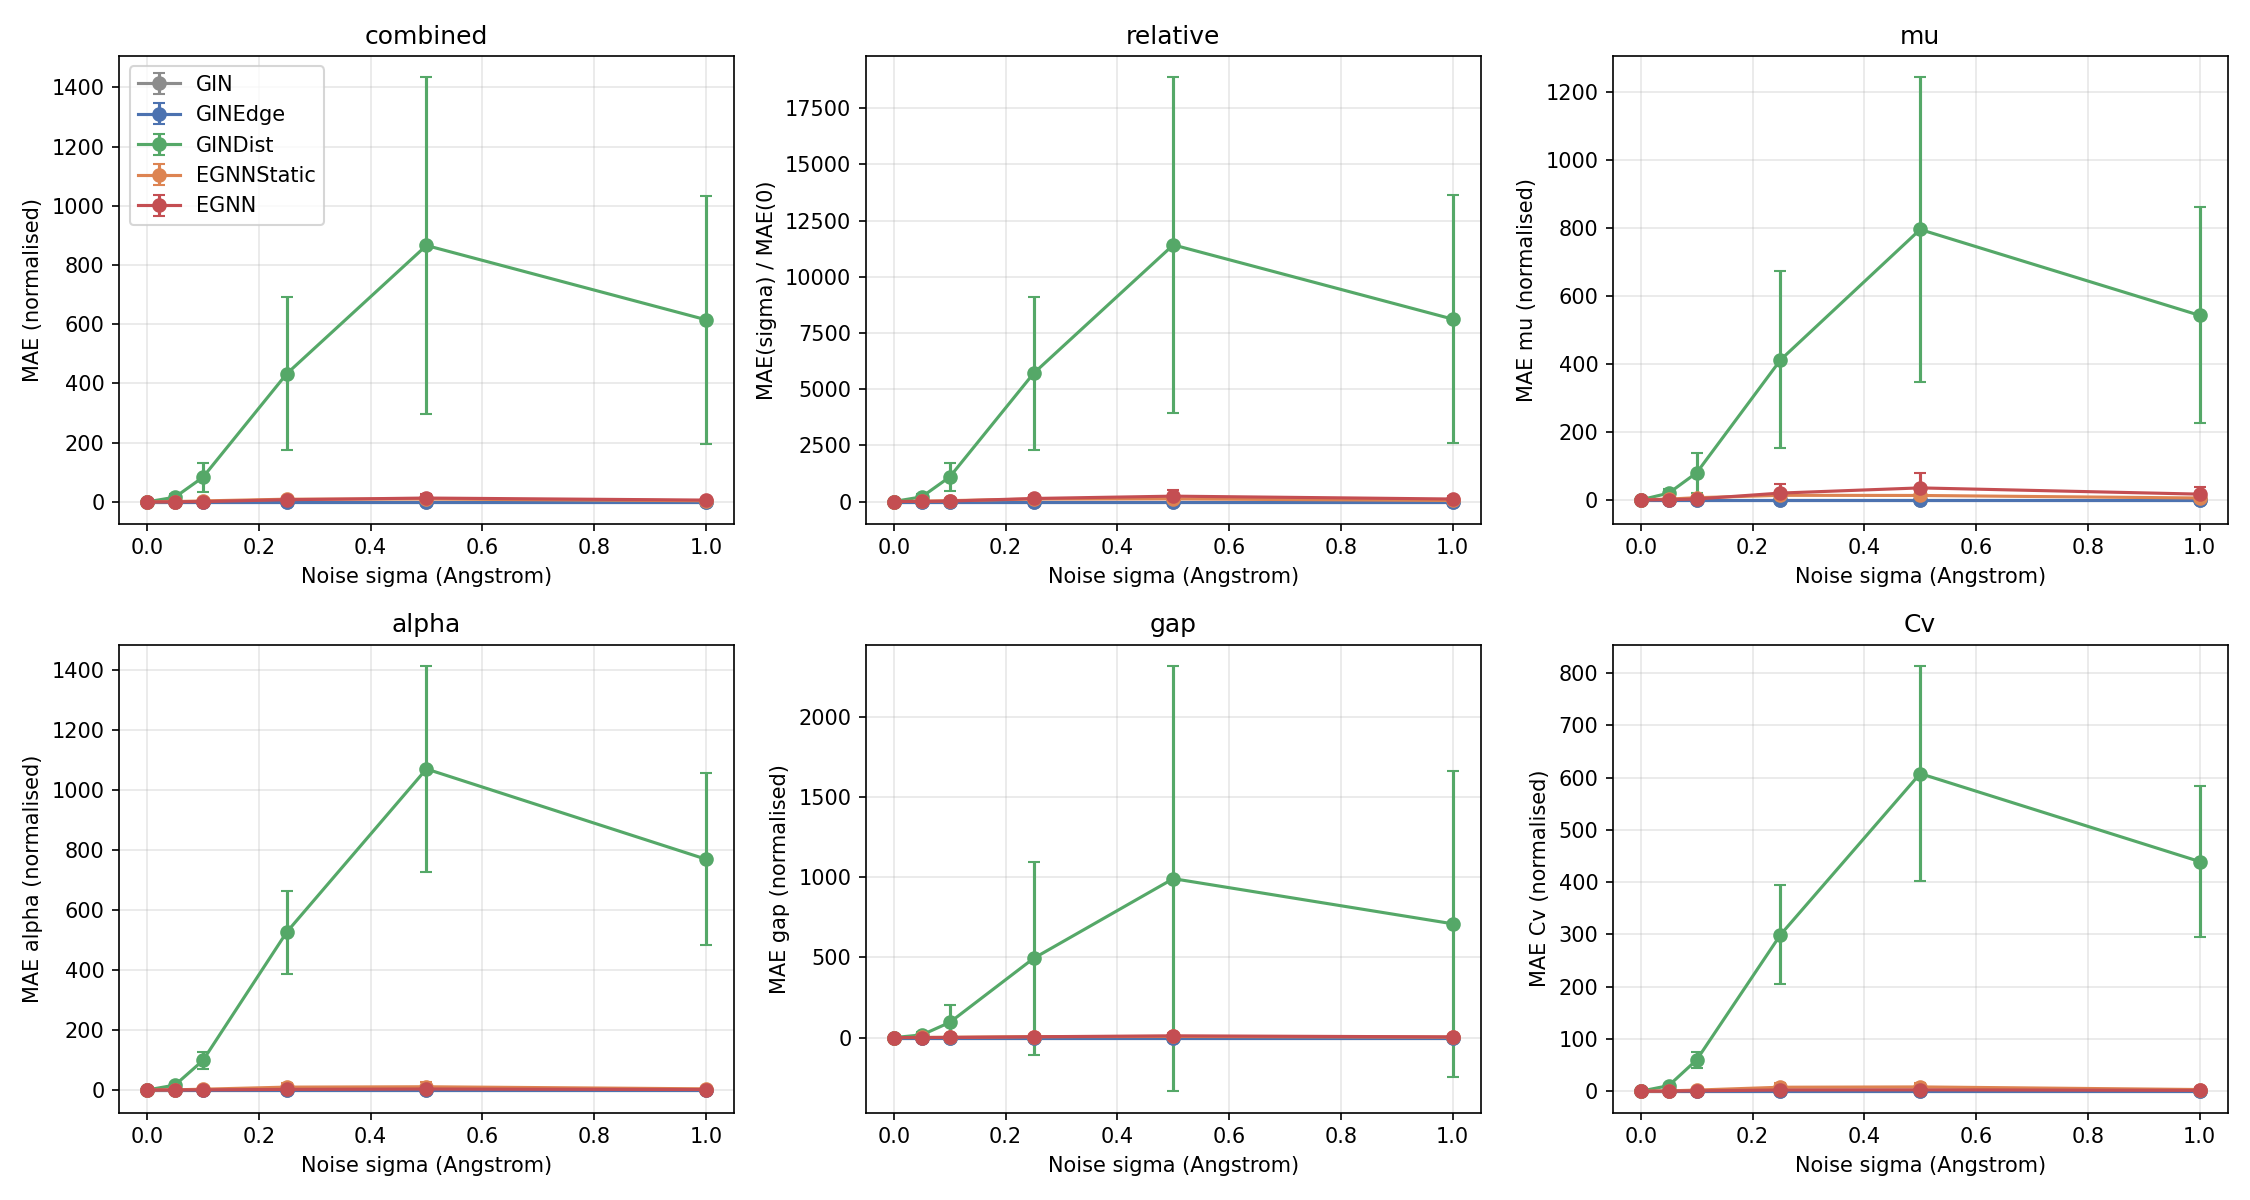
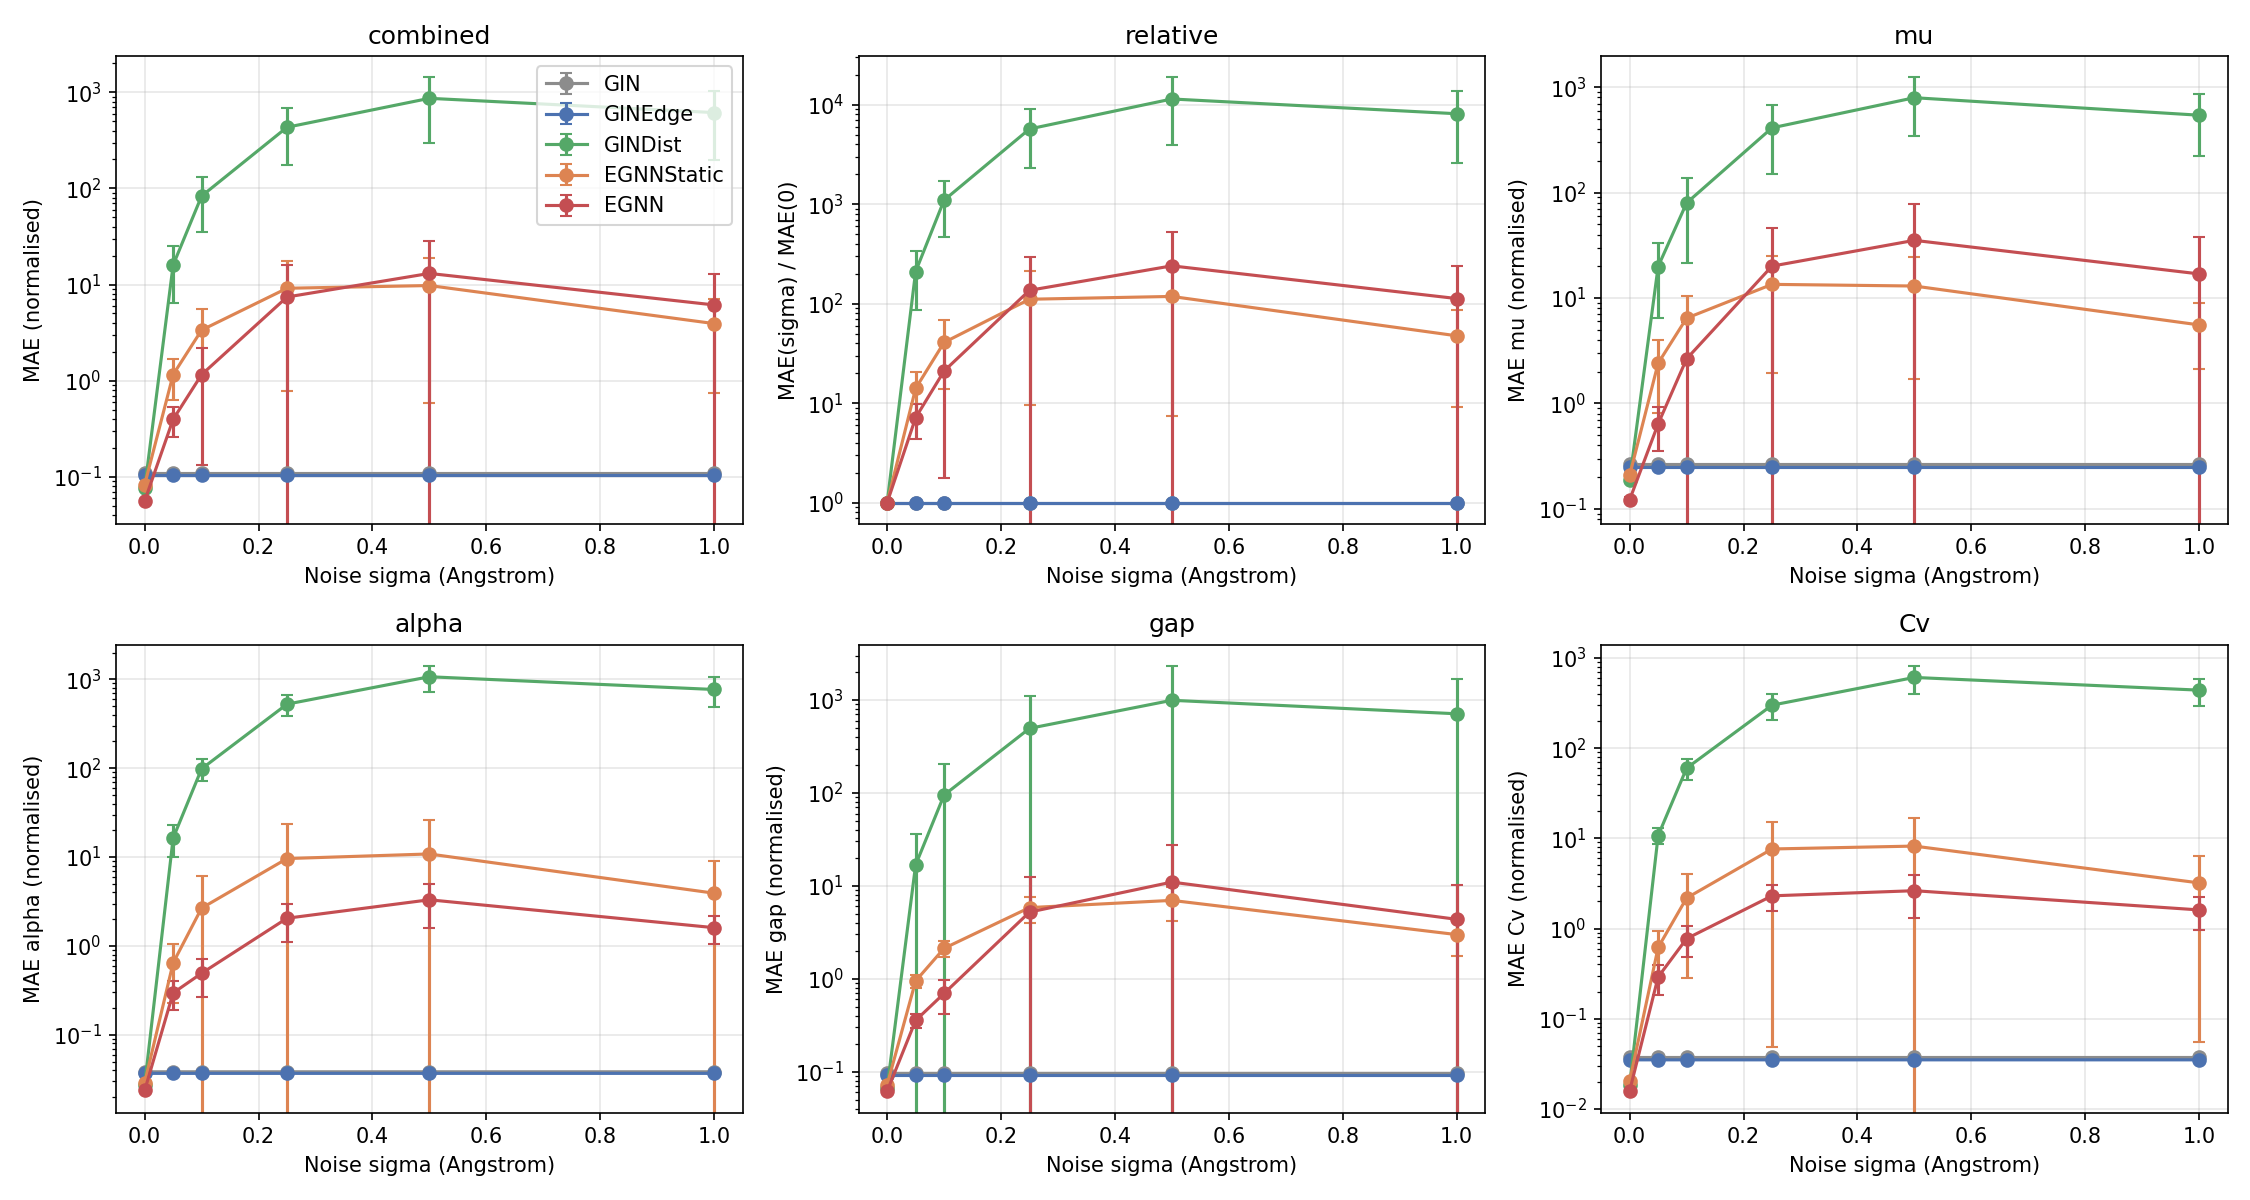
Add results, log-scale noise plot, heavy-atom curvature

diff --git a/src/molecular_prediction/experiments/curvature_analysis.py b/src/molecular_prediction/experiments/curvature_analysis.py
@@ -48,8 +48,19 @@ REFERENCE_MODEL: str = "GIN"
 NUM_BOOTSTRAP: int = 1_000
 
 
+def heavy_atom_graph(edge_index: torch.Tensor, is_heavy: torch.Tensor) -> tuple[np.ndarray, int]:
+    """Drop hydrogens and their bonds, relabelling the remaining atoms 0..n-1."""
+    new_index: torch.Tensor = torch.full((len(is_heavy),), -1, dtype=torch.long)
+    new_index[is_heavy] = torch.arange(int(is_heavy.sum()))
+    keep: torch.Tensor = is_heavy[edge_index[0]] & is_heavy[edge_index[1]]
+    return new_index[edge_index[:, keep]].numpy(), int(is_heavy.sum())
+
+
 def compute_test_curvatures(config: Config, test_dataset: Dataset) -> dict[str, np.ndarray]:
     """Curvature summary and size of every test molecule, cached as ``.npz``.
+
+    Curvature is computed on the all-atom graph the models use, or on the
+    heavy-atom skeleton if ``config.curvature.heavy_atoms_only`` is set.
 
     Returns:
         Arrays of length num_test: ``min_curvature``, ``mean_curvature``,
@@ -57,7 +68,7 @@ def compute_test_curvatures(config: Config, test_dataset: Dataset) -> dict[str, 
     """
     cache: Path = config.paths.cache_dir / (
         f"curvature_split{config.data.split_seed}_n{len(test_dataset)}"
-        f"_alpha{config.curvature.alpha}.npz"
+        f"_alpha{config.curvature.alpha}{config.curvature.suffix}.npz"
     )
     if cache.exists():
         logger.info("Loading cached curvatures from %s", cache)
@@ -67,8 +78,13 @@ def compute_test_curvatures(config: Config, test_dataset: Dataset) -> dict[str, 
     num_heavy: list[int] = []
     for i in range(len(test_dataset)):
         data = test_dataset[i]
-        graphs.append((data.edge_index.numpy(), data.num_nodes, config.curvature.alpha))
-        num_heavy.append(int((data.x[:, HYDROGEN_FEATURE] == 0).sum()))
+        is_heavy: torch.Tensor = data.x[:, HYDROGEN_FEATURE] == 0
+        if config.curvature.heavy_atoms_only:
+            edge_index, num_nodes = heavy_atom_graph(data.edge_index, is_heavy)
+        else:
+            edge_index, num_nodes = data.edge_index.numpy(), data.num_nodes
+        graphs.append((edge_index, num_nodes, config.curvature.alpha))
+        num_heavy.append(int(is_heavy.sum()))
 
     logger.info("Computing Ollivier-Ricci curvature for %d molecules...", len(graphs))
     with Pool(config.curvature.num_processes) as pool:
@@ -78,7 +94,7 @@ def compute_test_curvatures(config: Config, test_dataset: Dataset) -> dict[str, 
         "min_curvature": np.array([s.min_curvature for s in summaries]),
         "mean_curvature": np.array([s.mean_curvature for s in summaries]),
         "num_edges": np.array([s.num_edges for s in summaries]),
-        "num_atoms": np.array([g[1] for g in graphs]),
+        "num_atoms": np.array([g[1] for g in graphs]),  # nodes of the analysed graph
         "num_heavy_atoms": np.array(num_heavy),
     }
     cache.parent.mkdir(parents=True, exist_ok=True)
@@ -234,11 +250,13 @@ def run_curvature_analysis(
                 reference - candidate, molecules["min_curvature"], molecules["num_atoms"]
             )
 
-    save_json(summary, config.paths.results_dir / "curvature_analysis.json")
-    plotting.plot_curvature_distribution(molecules, config.paths.figures_dir)
-    plotting.plot_mae_by_quantile(summary, config.paths.figures_dir)
+    suffix: str = config.curvature.suffix
+    summary["graph"] = "heavy_atoms" if config.curvature.heavy_atoms_only else "all_atoms"
+    save_json(summary, config.paths.results_dir / f"curvature_analysis{suffix}.json")
+    plotting.plot_curvature_distribution(molecules, config.paths.figures_dir, suffix)
+    plotting.plot_mae_by_quantile(summary, config.paths.figures_dir, suffix)
     if summary["relative_improvement"]:
-        plotting.plot_relative_improvement(summary, config.paths.figures_dir)
+        plotting.plot_relative_improvement(summary, config.paths.figures_dir, suffix)
     _log_summary(summary)
     return summary
 

diff --git a/src/molecular_prediction/cli.py b/src/molecular_prediction/cli.py
@@ -7,6 +7,8 @@ Examples:
     python main.py compare
     python main.py noise
     python main.py curvature
+    python main.py curvature --heavy-atoms   # curvature of the hydrogen-free skeleton
+    python main.py plots                     # redraw every figure from results/*.json
     python main.py all --smoke          # 2-epoch end-to-end check on a tiny subset
 """
 
@@ -16,13 +18,23 @@ from pathlib import Path
 
 from molecular_prediction.config import MODEL_NAMES, Config
 from molecular_prediction.data.dataset import load_splits
+from molecular_prediction.experiments import plotting
 from molecular_prediction.experiments.curvature_analysis import run_curvature_analysis
 from molecular_prediction.experiments.main_comparison import aggregate_comparison, train_all
 from molecular_prediction.experiments.noise_ablation import run_noise_ablation
 from molecular_prediction.models import build_model, count_parameters
-from molecular_prediction.training.utils import resolve_device, save_json
+from molecular_prediction.training.utils import load_json, resolve_device, save_json
 
-COMMANDS: tuple[str, ...] = ("params", "data", "train", "compare", "noise", "curvature", "all")
+COMMANDS: tuple[str, ...] = (
+    "params",
+    "data",
+    "train",
+    "compare",
+    "noise",
+    "curvature",
+    "plots",
+    "all",
+)
 
 
 def parse_args(argv: list[str] | None = None) -> argparse.Namespace:
@@ -39,6 +51,11 @@ def parse_args(argv: list[str] | None = None) -> argparse.Namespace:
     parser.add_argument("--output-dir", type=Path, help="Checkpoints, logs, caches.")
     parser.add_argument("--results-dir", type=Path, help="JSON results and figures.")
     parser.add_argument("--overwrite", action="store_true", help="Retrain finished runs.")
+    parser.add_argument(
+        "--heavy-atoms",
+        action="store_true",
+        help="Curvature analysis on the heavy-atom graph (hydrogens removed).",
+    )
     parser.add_argument(
         "--smoke",
         action="store_true",
@@ -69,6 +86,7 @@ def build_config(args: argparse.Namespace) -> Config:
         config.paths.output_dir = args.output_dir
     if args.results_dir is not None:
         config.paths.results_dir = args.results_dir
+    config.curvature.heavy_atoms_only = args.heavy_atoms
     return config
 
 
@@ -79,6 +97,25 @@ def print_parameter_counts(config: Config, model_names: list[str]) -> None:
             f"{name:<11} hidden={config.model.hidden_dims[name]:>4}  "
             f"parameters={count_parameters(model):>9,}"
         )
+
+
+def redraw_figures(config: Config, model_names: list[str]) -> None:
+    """Regenerate the figures from the saved JSON results, without checkpoints.
+
+    The curvature histogram needs per-molecule data from the cache, so it is
+    only redrawn by the ``curvature`` command itself.
+    """
+    results: Path = config.paths.results_dir
+    figures: Path = config.paths.figures_dir
+    aggregate_comparison(config, model_names)
+    if (results / "noise_ablation.json").exists():
+        plotting.plot_noise_ablation(load_json(results / "noise_ablation.json"), figures)
+    for suffix in ("", "_heavy"):
+        path: Path = results / f"curvature_analysis{suffix}.json"
+        if path.exists():
+            summary = load_json(path)
+            plotting.plot_mae_by_quantile(summary, figures, suffix)
+            plotting.plot_relative_improvement(summary, figures, suffix)
 
 
 def main(argv: list[str] | None = None) -> None:
@@ -93,6 +130,10 @@ def main(argv: list[str] | None = None) -> None:
 
     if args.command == "params":
         print_parameter_counts(config, models)
+        return
+
+    if args.command == "plots":
+        redraw_figures(config, models)
         return
 
     if args.command == "data":

diff --git a/src/molecular_prediction/experiments/plotting.py b/src/molecular_prediction/experiments/plotting.py
@@ -134,13 +134,17 @@ def plot_noise_ablation(summary: dict[str, Any], output_dir: Path) -> None:
             )
         ax.set_xlabel("Noise sigma (Angstrom)")
         ax.set_ylabel(ylabel)
+        # Errors span four orders of magnitude across models: log scale is required.
+        ax.set_yscale("log")
         ax.set_title(key)
         ax.grid(True, alpha=0.3)
     axes.flat[0].legend()
     _save(fig, output_dir, "noise_ablation.png")
 
 
-def plot_curvature_distribution(molecules: dict[str, np.ndarray], output_dir: Path) -> None:
+def plot_curvature_distribution(
+    molecules: dict[str, np.ndarray], output_dir: Path, suffix: str = ""
+) -> None:
     """Histogram of min curvature and its relation to molecule size (the confounder)."""
     fig, axes = plt.subplots(1, 2, figsize=(12, 4.5))
     axes[0].hist(molecules["min_curvature"], bins=40, color="#4C72B0", edgecolor="white")
@@ -161,10 +165,10 @@ def plot_curvature_distribution(molecules: dict[str, np.ndarray], output_dir: Pa
     axes[1].set_title("Curvature vs size (confounder)")
     for ax in axes:
         ax.grid(True, alpha=0.3)
-    _save(fig, output_dir, "curvature_distribution.png")
+    _save(fig, output_dir, f"curvature_distribution{suffix}.png")
 
 
-def plot_mae_by_quantile(summary: dict[str, Any], output_dir: Path) -> None:
+def plot_mae_by_quantile(summary: dict[str, Any], output_dir: Path, suffix: str = "") -> None:
     """MAE per bottleneck quantile: combined (normalised) and per target (physical)."""
     models: list[str] = list(summary["mae_by_quantile"])
     labels: list[str] = [f"Q{q}\nn={n}" for q, n in enumerate(summary["quantile_sizes"])]
@@ -184,10 +188,10 @@ def plot_mae_by_quantile(summary: dict[str, Any], output_dir: Path) -> None:
         ax.set_xlabel("Bottleneck quantile (Q0 = least)")
     axes[0].set_ylabel("MAE")
     axes[0].legend(fontsize=8)
-    _save(fig, output_dir, "mae_by_quantile.png")
+    _save(fig, output_dir, f"mae_by_quantile{suffix}.png")
 
 
-def plot_relative_improvement(summary: dict[str, Any], output_dir: Path) -> None:
+def plot_relative_improvement(summary: dict[str, Any], output_dir: Path, suffix: str = "") -> None:
     """Relative improvement over GIN per quantile with paired-bootstrap 95% CIs."""
     improvements: dict[str, list[dict[str, float]]] = summary["relative_improvement"]
     models: list[str] = list(improvements)
@@ -218,4 +222,4 @@ def plot_relative_improvement(summary: dict[str, Any], output_dir: Path) -> None
     ax.set_title("Relative MAE improvement over GIN (combined, 95% bootstrap CI)")
     ax.legend(fontsize=8)
     ax.grid(True, axis="y", alpha=0.3)
-    _save(fig, output_dir, "relative_improvement_by_quantile.png")
+    _save(fig, output_dir, f"relative_improvement_by_quantile{suffix}.png")

diff --git a/tests/test_curvature.py b/tests/test_curvature.py
@@ -56,3 +56,17 @@ def test_regression_removes_a_pure_size_effect() -> None:
     result = size_controlled_regression(improvement, min_curvature, num_atoms)
     assert result["severity_coef"] > 5 * result["severity_se"]  # confounded on its own
     assert abs(result["severity_coef_given_size"]) < 3 * result["severity_se_given_size"]
+
+
+def test_sp3_sp3_bond_curvature_depends_on_explicit_hydrogens() -> None:
+    """Ethane: with hydrogens the C-C bond looks like a bottleneck, without them it does not.
+
+    Each carbon has degree 4, so its walk spreads 1/8 on each neighbour; the three
+    hydrogens of one carbon must travel 3 hops to those of the other:
+    W1 = 3/8 + 3 * 3/8 = 3/2, kappa = -1/2. This is why most saturated molecules
+    share a minimum curvature of exactly -0.5 on the all-atom graph.
+    """
+    carbon_carbon: list[tuple[int, int]] = [(0, 1)]
+    hydrogens: list[tuple[int, int]] = [(0, h) for h in (2, 3, 4)] + [(1, h) for h in (5, 6, 7)]
+    assert _curvature(nx.Graph(carbon_carbon + hydrogens), 0, 1) == pytest.approx(-0.5)
+    assert _curvature(nx.Graph(carbon_carbon), 0, 1) == pytest.approx(1.0)

diff --git a/src/molecular_prediction/config.py b/src/molecular_prediction/config.py
@@ -131,6 +131,15 @@ class CurvatureConfig:
     alpha: float = 0.5  # laziness of the random walk
     num_quantiles: int = 4
     num_processes: int = 8
+    # With explicit hydrogens, every single bond between two sp3 atoms has
+    # curvature exactly -0.5, so the minimum curvature mostly encodes saturation.
+    # The heavy-atom graph (hydrogens removed) measures the skeleton's topology.
+    heavy_atoms_only: bool = False
+
+    @property
+    def suffix(self) -> str:
+        """Appended to result and figure names to keep both variants side by side."""
+        return "_heavy" if self.heavy_atoms_only else ""
 
 
 @dataclass

diff --git a/README.md b/README.md
@@ -121,9 +121,56 @@ git add results && git commit -m "Add DGX results" && git push
 
 ## Results
 
-Generated in `results/` after training: `comparison.json`, `noise_ablation.json`,
-`curvature_analysis.json`, per-run `results/runs/<model>/seed_<s>/{metrics,history}.json`
-and the figures in `results/figures/`.
+5 models x 3 seeds, 300 epochs each, on one NVIDIA H200 MIG slice (1g.18gb, ~1 h per run).
+Test MAE, mean ± std over seeds (combined score in normalised units, targets in physical units):
+
+| Model | Params | Combined | mu [D] | alpha [a0^3] | gap [eV] | Cv [cal/mol/K] |
+|---|---|---|---|---|---|---|
+| GIN | 200.7k | 0.1094 ± 0.0002 | 0.397 ± 0.002 | 0.314 ± 0.001 | 0.125 ± 0.001 | 0.154 ± 0.001 |
+| GINEdge | 198.1k | 0.1036 ± 0.0003 | 0.379 ± 0.001 | 0.302 ± 0.004 | 0.117 ± 0.000 | 0.142 ± 0.001 |
+| GINDist | 202.0k | 0.0756 ± 0.0011 | 0.285 ± 0.005 | 0.224 ± 0.002 | 0.086 ± 0.001 | 0.074 ± 0.001 |
+| EGNNStatic | 202.7k | 0.0825 ± 0.0011 | 0.314 ± 0.004 | 0.236 ± 0.005 | 0.093 ± 0.001 | 0.083 ± 0.002 |
+| **EGNN** | 198.8k | **0.0559 ± 0.0021** | **0.184 ± 0.011** | **0.194 ± 0.004** | **0.079 ± 0.000** | **0.065 ± 0.001** |
+
+![Test MAE](results/figures/test_mae.png)
+
+**What each step of the ladder shows** (all differences are far larger than the seed-to-seed spread):
+
+- **Bond types help a little** (GIN → GINEdge: −5% combined).
+- **Bond lengths help a lot** (GINEdge → GINDist: −27%), most for heat capacity (−48%).
+- **With identical information, architecture matters**: EGNNStatic is *worse* than
+  GINDist (+9%). GINE's dedicated edge encoder exploits distances better than EGNN's
+  concatenation of distance features with atom embeddings.
+- **Equivariant coordinate updates give the largest single gain** (EGNNStatic → EGNN:
+  −32%). It is graded by target exactly as physics suggests: dipole moment −41%
+  (normalised), polarisability −18%, heat capacity −22%, HOMO-LUMO gap −15%. On a bond
+  graph, moving coordinates is the only way the model can access bond and dihedral
+  angles, and the dipole is the most direction-dependent property.
+
+**Noise ablation.** GIN and GINEdge are exactly flat (sanity check passed). Every
+geometric model is extremely sensitive: at sigma = 0.05 A, below thermal vibration
+amplitudes, all of them become *worse than the topology-only GIN*, and GINDist's error
+grows by two orders of magnitude. Models trained on exact DFT geometries use distances
+as a high-precision fingerprint; they are not usable on approximate geometries without
+noise-aware training (e.g. denoising / noise augmentation).
+
+![Noise ablation](results/figures/noise_ablation.png)
+
+**Over-squashing.** Quantiles are balanced (2708 molecules each). The relative gain over
+GIN increases mildly with bottleneck severity (EGNN: 47% in Q0 to 51% in Q3; GINDist:
+28% to 34%), but the absolute per-molecule gain shows no curvature effect once molecule
+size is controlled (EGNN: −0.0033 ± 0.0006 without size, −0.0007 ± 0.0008 with size).
+Moreover, with explicit hydrogens every single bond between two sp3 atoms has curvature
+exactly −0.5, so 61% of molecules share the minimum value: on the all-atom graph,
+curvature mostly measures saturation rather than topological bottlenecks. QM9 molecules
+are too small (diameter of a few hops, 4 message-passing layers) for over-squashing to
+show. `python main.py curvature --heavy-atoms` repeats the analysis on the hydrogen-free
+skeleton.
+
+![Relative improvement by quantile](results/figures/relative_improvement_by_quantile.png)
+
+All numbers: `results/comparison.json`, `results/noise_ablation.json`,
+`results/curvature_analysis.json`, per-run metrics and curves in `results/runs/`.
 
 ## References
 
